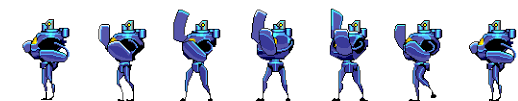
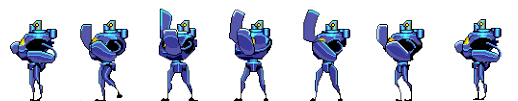
Added some pictures and made some adjustments

diff --git a/cmpsc488/botbattleapp/nodejs_applications/static/javascript/testArena.js b/cmpsc488/botbattleapp/nodejs_applications/static/javascript/testArena.js
@@ -45,7 +45,56 @@
       var testGameState = {
         animationsList : [ 
                           //new DefendEvent('player1'), 
+            new MoveEvent('player1', 0, gameboard.drawableObjects['player1'].y), 
+            new DefendEvent('player1'),
+            new MoveEvent('player1', 1, gameboard.drawableObjects['player1'].y), 
+            new DefendEvent('player1'),
+            new MoveEvent('player1', 2, gameboard.drawableObjects['player1'].y), 
+            new DefendEvent('player1'),
+            new MoveEvent('player1', 3, gameboard.drawableObjects['player1'].y), 
+            new DefendEvent('player1'),
+            new MoveEvent('player1', 4, gameboard.drawableObjects['player1'].y), 
+            new DefendEvent('player1'),
+            new MoveEvent('player1', 5, gameboard.drawableObjects['player1'].y), 
+            new DefendEvent('player1'),
+            new MoveEvent('player1', 6, gameboard.drawableObjects['player1'].y), 
+            new DefendEvent('player1'),
+            new MoveEvent('player1', 7, gameboard.drawableObjects['player1'].y), 
+            new DefendEvent('player1'),
+            new MoveEvent('player1', 8, gameboard.drawableObjects['player1'].y), 
+            new DefendEvent('player1'),
+            new MoveEvent('player1', 9, gameboard.drawableObjects['player1'].y), 
+            new DefendEvent('player1'),
             new MoveEvent('player1', 10, gameboard.drawableObjects['player1'].y), 
+            new DefendEvent('player1'),
+            new MoveEvent('player1', 11, gameboard.drawableObjects['player1'].y), 
+            new DefendEvent('player1'),
+            new MoveEvent('player1', 12, gameboard.drawableObjects['player1'].y), 
+            new DefendEvent('player1'),
+            new MoveEvent('player1', 13, gameboard.drawableObjects['player1'].y), 
+            new DefendEvent('player1'),
+            new MoveEvent('player1', 14, gameboard.drawableObjects['player1'].y), 
+            new DefendEvent('player1'),
+            new MoveEvent('player1', 15, gameboard.drawableObjects['player1'].y), 
+            new DefendEvent('player1'),
+            new MoveEvent('player1', 16, gameboard.drawableObjects['player1'].y), 
+            new DefendEvent('player1'),
+            new MoveEvent('player1', 17, gameboard.drawableObjects['player1'].y), 
+            new DefendEvent('player1'),
+            new MoveEvent('player1', 18, gameboard.drawableObjects['player1'].y), 
+            new DefendEvent('player1'),
+            new MoveEvent('player1', 19, gameboard.drawableObjects['player1'].y), 
+            new DefendEvent('player1'),
+            new MoveEvent('player1', 20, gameboard.drawableObjects['player1'].y), 
+            new DefendEvent('player1'),
+            new MoveEvent('player1', 21, gameboard.drawableObjects['player1'].y), 
+            new DefendEvent('player1'),
+            new MoveEvent('player1', 22, gameboard.drawableObjects['player1'].y), 
+            new DefendEvent('player1'),
+            new MoveEvent('player1', 23, gameboard.drawableObjects['player1'].y), 
+            new DefendEvent('player1'),
+            new MoveEvent('player1', 24, gameboard.drawableObjects['player1'].y), 
+            new DefendEvent('player1'),
             new MoveEvent('player2', 11, gameboard.drawableObjects['player2'].y),
             new DefendEvent('player1'), 
             new DefendEvent('player2'), 

diff --git a/cmpsc488/botbattleapp/nodejs_applications/static/javascript/classes.js b/cmpsc488/botbattleapp/nodejs_applications/static/javascript/classes.js
@@ -70,17 +70,17 @@ var drawableImage = function(imageSrc, sourceX, sourceY, sourceWidth, sourceHeig
 
 drawableImage.prototype = Object.create(drawableObject.prototype);
 drawableImage.prototype.constructor = drawableRectangle;
-drawableImage.prototype.draw = function(context) {
-  // temporary add to outline the boxes of objects for measureing purposes
-	 /* context.beginPath();
-	  context.rect(this.x, this.y, this.destWidth, this.destHeight);
-	  context.fillStyle = '#8ED6FF';
-	  context.fill();
-	  context.lineWidth = this.borderWidth;
-	  context.strokeStyle = 'black';
-	  context.stroke(); */
-	  
+drawableImage.prototype.draw = function(context) {	  
 	if(this.visible){
+		// temporary add to outline the boxes of objects for measureing purposes
+		  context.beginPath();
+		  context.rect(this.x * scale, this.y * scale, this.destWidth * scale, this.destHeight * scale);
+		  context.fillStyle = '#8ED6FF';
+		  context.fill();
+		  context.lineWidth = this.borderWidth;
+		  context.strokeStyle = 'black';
+		  context.stroke();
+		  
 	  this.update();
 	  
 	  if(this.numberOfFrames !== 1){
@@ -133,7 +133,7 @@ var MoveEvent = function(objectName, endingX, endingY) {
 	var gameboard = new GameBoard();
   AnimatableEvent.call(this, 'move', objectName);
   
-  this.endingX = (endingX * gameboard.gridWidth) + gameboard.islandStart;
+  this.endingX = (endingX * gameboard.gridWidth) + gameboard.islandStart;// - (gameboard.robotWidth/2) + gameboard.gridCenter;
   this.endingY = endingY;
 }
 
@@ -178,7 +178,7 @@ var GameBoard = function() {
   
   this.resize = function(){
 
-	  var canvasContainer = document.getElementsByClassName('col_9')[0].getBoundingClientRect();
+	  var canvasContainer = document.getElementsByClassName('col_9')[0].getBoundingClientRect();// this should be get parent
 	  //console.log(canvasContainer);
   	  canvas.width = Math.min(canvasContainer.width, 1050);
   	  canvas.height = canvas.width * 0.619047619;  // 650/1050 = 0.619047619
@@ -188,7 +188,7 @@ var GameBoard = function() {
   this.backGroundWidth = 1050;
   this.backGroundHeight = 650;
   this.islandWidth = 870;
-  this.islandStart = 83;
+  this.islandStart = 80;
   this.islandCenterHeight = 468;
   this.robotWidth = 43;
   this.robotHeight = 79;
@@ -216,20 +216,20 @@ var GameBoard = function() {
       player1 : new drawableImage(self.player1SpriteSheet, 
       							self.player1StandingSpriteSheetX, 
       							self.player1StandingSpriteSheetY, 
-      							self.robotWidth, 
+      							43, 
       							self.robotHeight, 
       							self.player1PositionX, 
       							self.player1PositionY, 
-      							self.robotWidth, 
+      							43, 
       							self.robotHeight, null, null, null, false, true, imageLoadedCallback),
       player2 : new drawableImage(self.player2SpriteSheet, 
       							self.player2StandingSpriteSheetX, 
       							self.player2StandingSpriteSheetY, 
-      							self.robotWidth, 
+      							43, 
       							self.robotHeight, 
       							self.player2PositionX, 
       							self.player2PositionY, 
-      							self.robotWidth, 
+      							43, 
       							self.robotHeight, null, null, null, false, true, imageLoadedCallback),
       player1Running : new drawableImage('static/images/RunningRight.png', 
       							0, 
